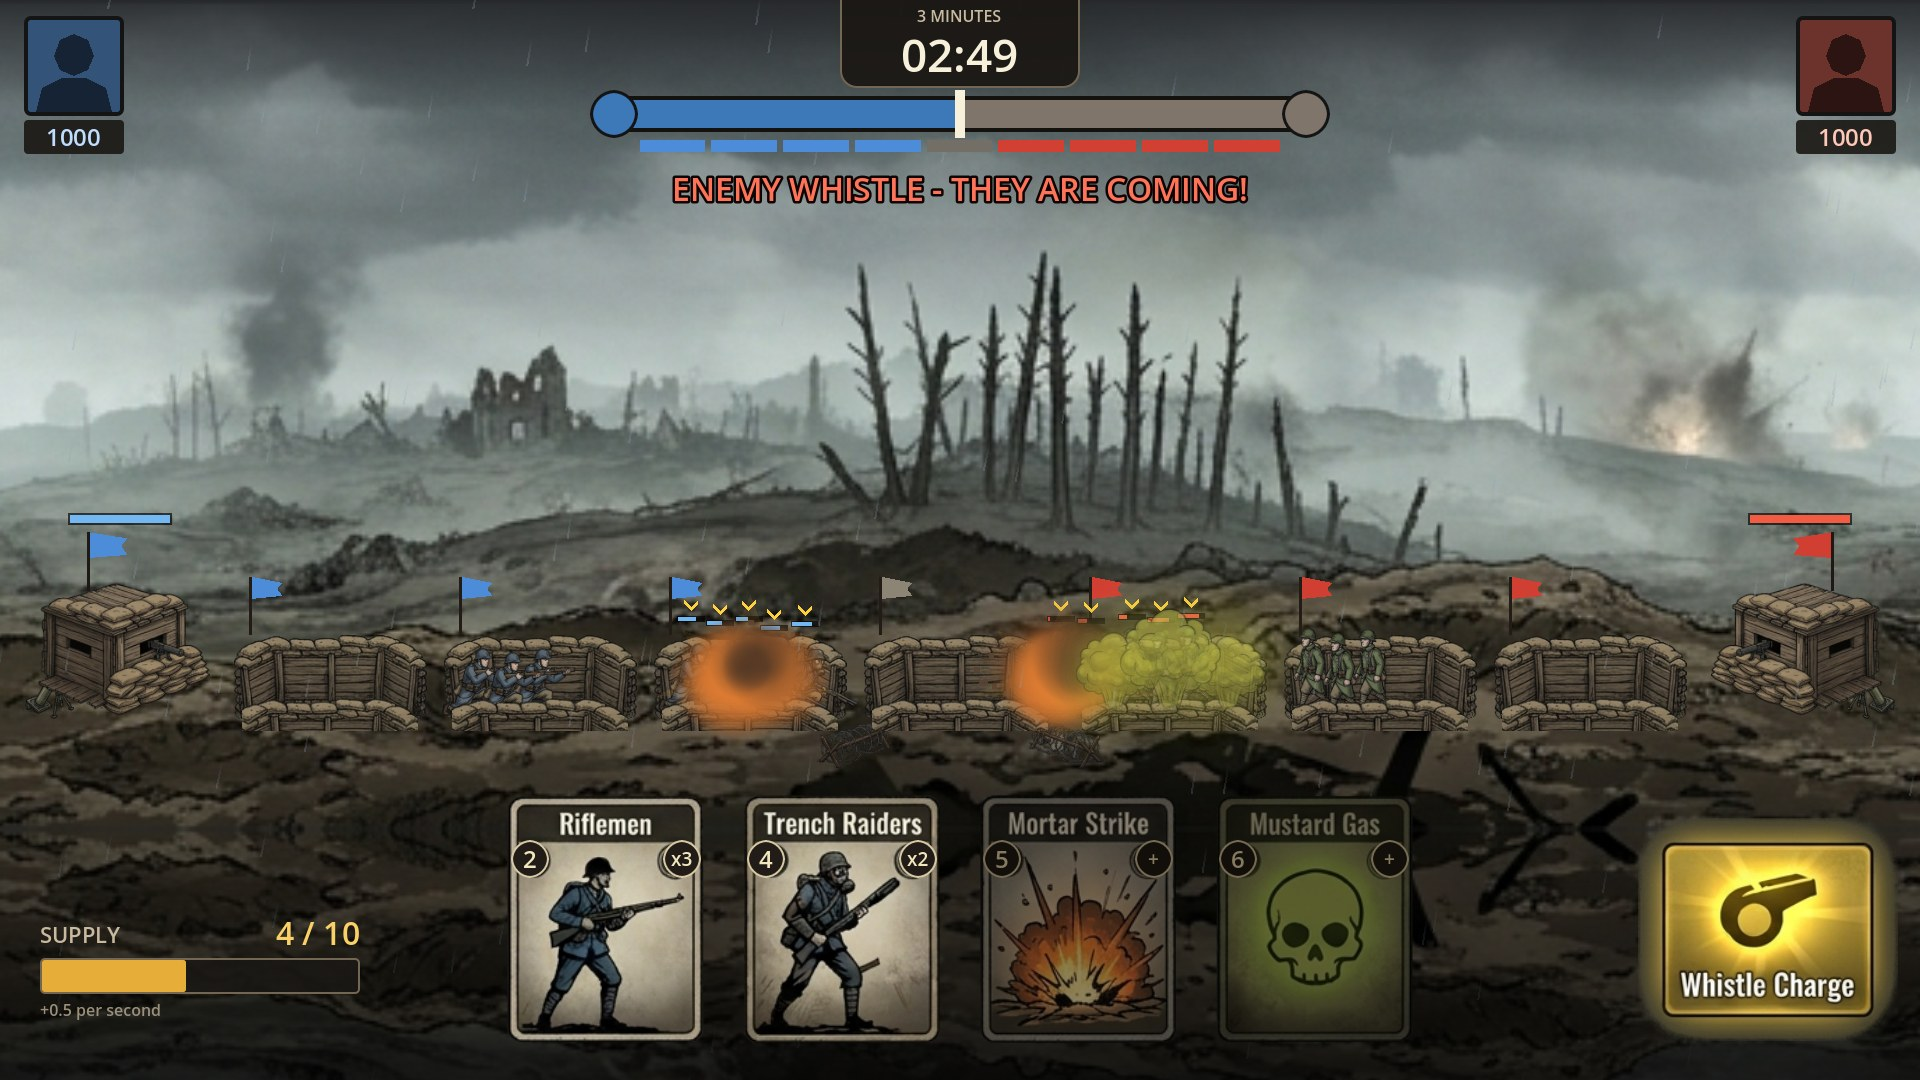
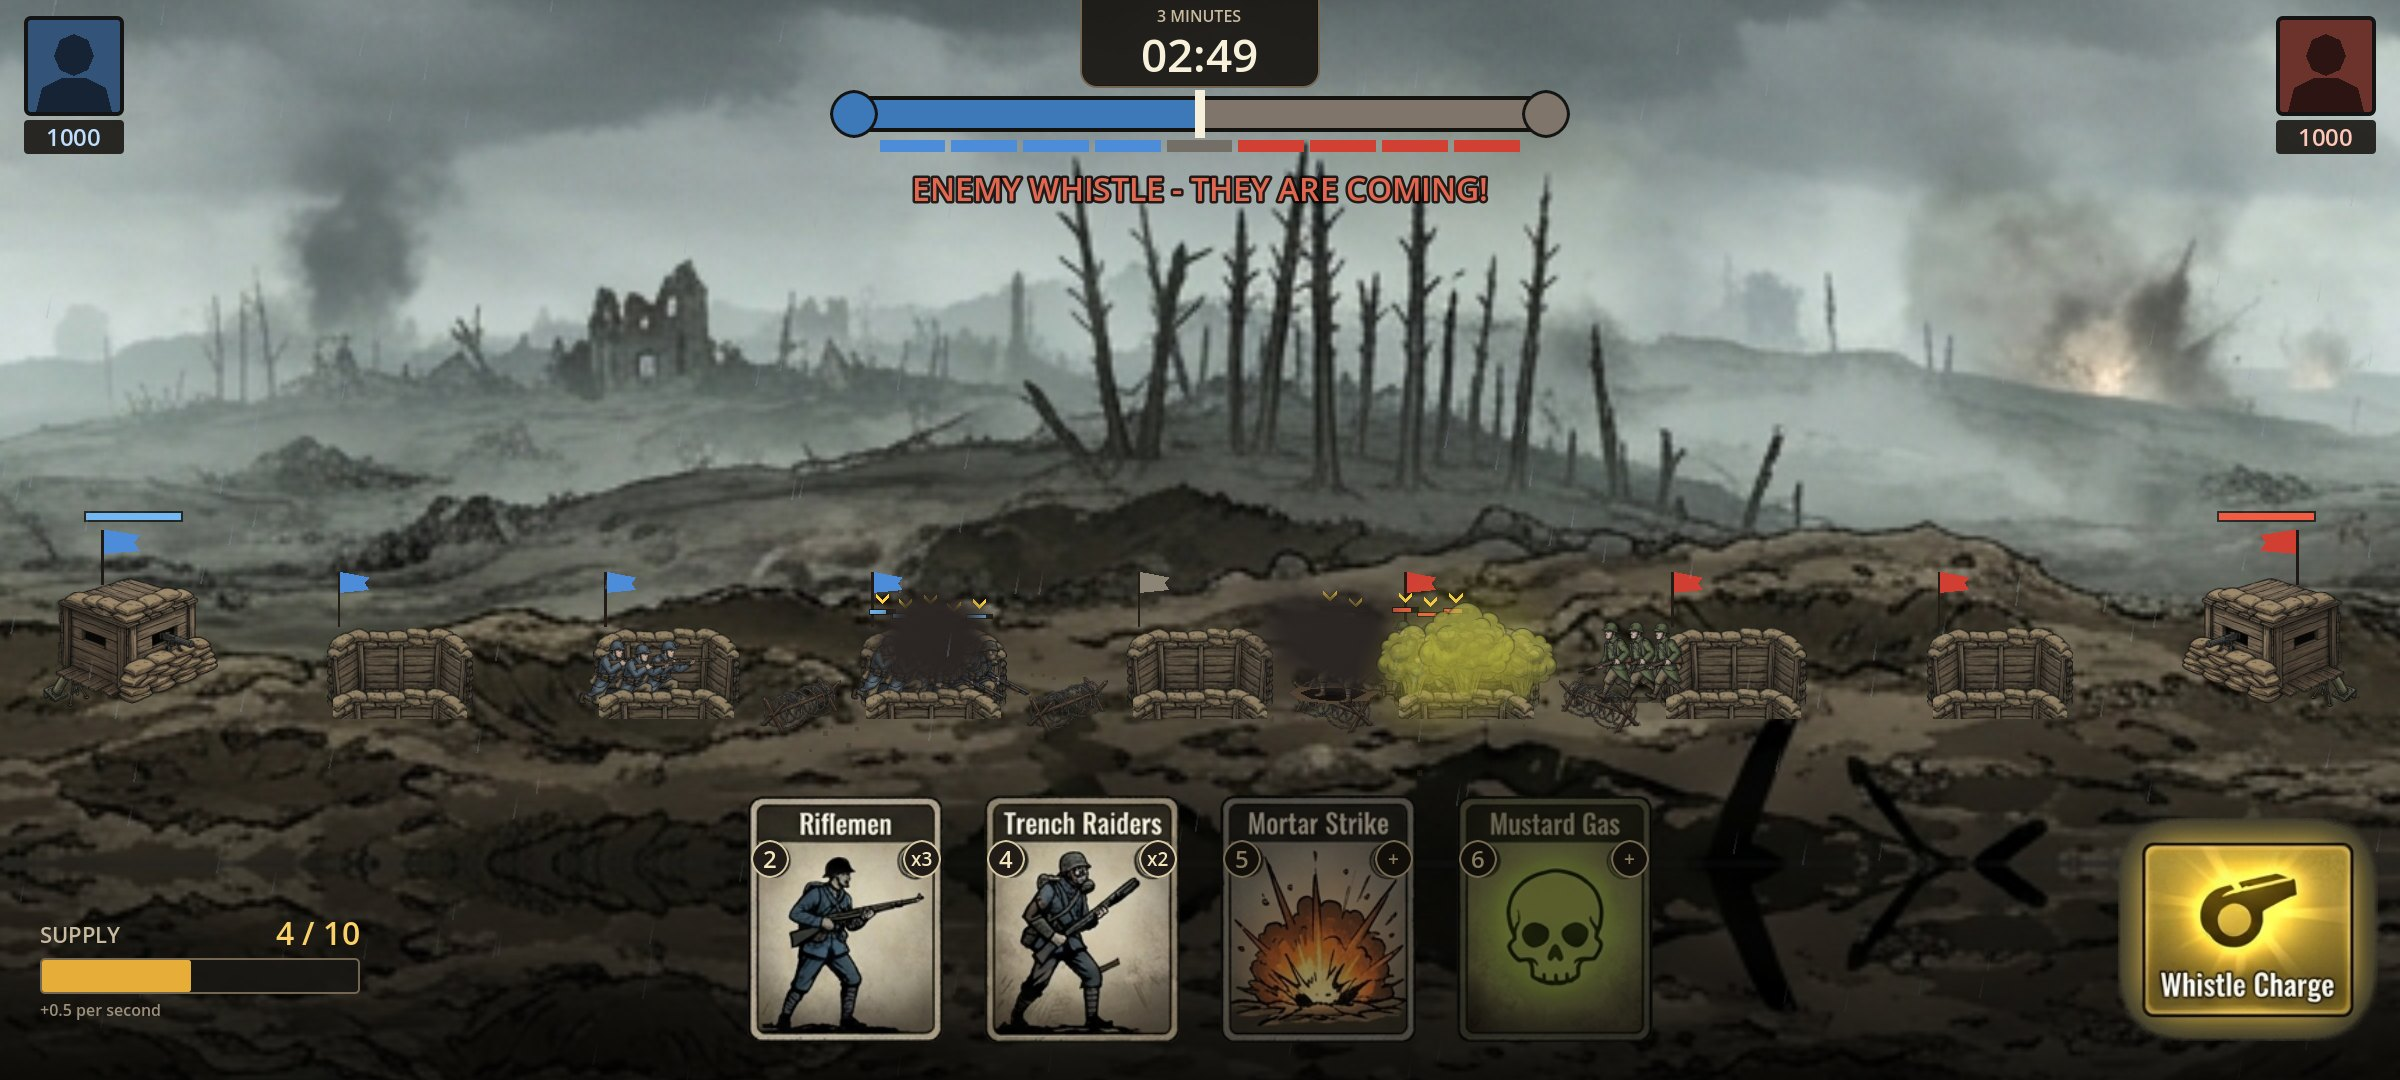
No Man's Line 0.5.0: open ground between trenches, camera fits the field
Trenches are narrower and 280 px apart, so every pair has a clear gap
of no man's land. The field is now 2520 world px wide and the camera
zooms to fit it to the screen width on any aspect ratio. Ranges and
speeds are rescaled to the new spacing, the backdrop is enlarged to
keep filling the screen, and craters can form in the gaps again.

Claude-Session: https://claude.ai/code/session_01NyUonp6gJKbSatdunyoYHK

diff --git a/no_mans_line/README.md b/no_mans_line/README.md
@@ -31,8 +31,10 @@ The APK is a debug-signed preview, not a store build.
 ## Rules as implemented
 
 The whole front fits on one screen: a Command Bunker at each end and seven
-trenches between them. Each side starts with three (reserve, support, front) and
-the middle trench starts neutral.
+trenches between them, with open ground between every pair. Each side starts
+with three (reserve, support, front) and the middle trench starts neutral. The
+camera zooms to fit the field to the screen width (about 0.76x on 16:9, 0.95x on
+a 20:9 phone).
 
 The game is built around one loop: **garrison, bank Supply, barrage, then
 charge.** Supply is slow on purpose, an unprepared charge at even numbers fails,
@@ -53,8 +55,8 @@ and the same charge behind a mortar or gas wins.
 | Clock | 03:00. At 00:00 the side holding more sectors wins. A tie goes to the healthier bunker, otherwise it is a stalemate. |
 | Red AI | Garrisons up to 6 soldiers, then banks Supply. Walks into undefended trenches, attacks defended ones with gas-then-whistle or mortar-plus-whistle, or a bare whistle when it clearly outnumbers you. Shells your troops when they bunch up in the open. No advances in the first 15 seconds. |
 
-Craters still exist in code, but the gaps between trenches on this map are too
-narrow for one to form except dead centre between two trenches.
+A mortar that lands in the open ground between two trenches leaves a crater
+(cover zone, bullets x0.65).
 
 Card cooldowns: Riflemen 3 s, Raiders 5 s, Mortar 8 s, Gas 12 s.
 
@@ -150,7 +152,7 @@ it to `Sprite2D.texture`, `TextureButton.texture_normal`, and so on.
 
 | Resource | Region | Used by |
 | --- | --- | --- |
-| `barbed_wire` | 1113, 560, 255, 176 | either side of the middle trench |
+| `barbed_wire` | 1113, 560, 255, 176 | the open ground around the middle trench |
 | `muzzle_flash` | 646, 566, 44, 32 | `Unit/Muzzle/MuzzleFlash`, bunker gun |
 | `bunker_units_sheet` | 748, 503, 327, 250 | sliced, not placed (the environment sheet's intact / damaged pair is used) |
 
@@ -194,7 +196,7 @@ Inspector. Keep `region.size + margin.size` equal to the cell size.
   rectangle. The tip is erased by the strip tool and every shot gets the separate
   `muzzle_flash` sprite instead.
 - **Backdrop upscale.** The banner is 259 px tall, so filling a 1080 px screen
-  draws it at 3.2x. It reads as a soft painted backdrop; a taller source image
+  draws it at 3.2x or more. It reads as a soft painted backdrop; a taller source image
   would sharpen it.
 - **Still procedural:** unit shadows and health bars, ownership flags, craters,
   the explosion flash, tracers, rain, and the top bar (portraits, tug-of-war bar,
@@ -208,24 +210,24 @@ Collision layer / mask values are shown as `L` / `M` using the layer names below
 
 ```
 Main (Node2D)                        GameManager.gd
-├─ Camera2D                          zoomed and positioned in code so the field spans the screen width
+├─ Camera2D                          zoomed and positioned in code so 2520 world px span the screen
 ├─ Background (Node2D, z -10)
 │  ├─ SkyFill, GroundFill (Polygon2D) flat colour beyond the art (only seen on very tall screens)
-│  ├─ Banner (Sprite2D)              background_banner, scale 3.2, fills the screen
+│  ├─ Banner (Sprite2D)              background_banner, scale 4.2, fills the screen
 │  ├─ GroundMirror (Sprite2D)        background_ground, flipped vertically: more mud under the HUD
 │  └─ SkyFade (Polygon2D)            soft top edge
 ├─ Battlefield (Node2D)
-│  ├─ Sectors (Node2D)               the 9 sectors, left to right, 210 px apart
-│  │  ├─ BlueBunker        (Bunker.tscn)  position (120, 700),  team = Blue
-│  │  ├─ BlueReserveTrench (Trench.tscn)  x = 330,  initial_owner = Blue
-│  │  ├─ BlueSupportTrench (Trench.tscn)  x = 540,  initial_owner = Blue
-│  │  ├─ BlueFrontTrench   (Trench.tscn)  x = 750,  initial_owner = Blue
-│  │  ├─ MiddleTrench      (Trench.tscn)  x = 960,  initial_owner = Neutral
-│  │  ├─ RedFrontTrench    (Trench.tscn)  x = 1170, initial_owner = Red
-│  │  ├─ RedSupportTrench  (Trench.tscn)  x = 1380, initial_owner = Red
-│  │  ├─ RedReserveTrench  (Trench.tscn)  x = 1590, initial_owner = Red
-│  │  └─ RedBunker         (Bunker.tscn)  position (1800, 700), team = Red
-│  ├─ Decor (Node2D)                 WireLeft, WireRight (Sprite2D, barbed_wire)
+│  ├─ Sectors (Node2D)               the 9 sectors, left to right, 280 px apart
+│  │  ├─ BlueBunker        (Bunker.tscn)  position (140, 700),  team = Blue
+│  │  ├─ BlueReserveTrench (Trench.tscn)  x = 420,  initial_owner = Blue
+│  │  ├─ BlueSupportTrench (Trench.tscn)  x = 700,  initial_owner = Blue
+│  │  ├─ BlueFrontTrench   (Trench.tscn)  x = 980,  initial_owner = Blue
+│  │  ├─ MiddleTrench      (Trench.tscn)  x = 1260, initial_owner = Neutral
+│  │  ├─ RedFrontTrench    (Trench.tscn)  x = 1540, initial_owner = Red
+│  │  ├─ RedSupportTrench  (Trench.tscn)  x = 1820, initial_owner = Red
+│  │  ├─ RedReserveTrench  (Trench.tscn)  x = 2100, initial_owner = Red
+│  │  └─ RedBunker         (Bunker.tscn)  position (2380, 700), team = Red
+│  ├─ Decor (Node2D)                 four barbed_wire Sprite2Ds in the gaps around the middle
 │  ├─ Craters (Node2D)               Crater.tscn instances are added here
 │  ├─ Units (Node2D, y_sort_enabled) Unit.tscn instances are added here
 │  └─ Effects (Node2D)               mortars, gas clouds, tracers
@@ -240,8 +242,9 @@ Main (Node2D)                        GameManager.gd
 
 `GameManager` finds the trenches itself: every `Trench` under `Sectors` is
 collected and sorted by x, so adding, removing or moving an instance changes the
-map with no code edits. Keep the spacing at or under about 210 px, or riflemen
-(range 330) can no longer reach the far side of the next trench.
+map with no code edits. Two things to keep in step if you change the spacing:
+riflemen (range 400) must still reach the far side of the next trench, and
+`GameManager.FIELD_VIEW_WIDTH` (2520) is the width the camera fits to the screen.
 
 ### Unit.tscn
 
@@ -281,7 +284,7 @@ as drawn and mirrors Red; a unit also turns to face its target.
 
 ```
 Trench (Area2D)                      Trench.gd, L sectors, M blue_units + red_units
-├─ CollisionShape2D                  RectangleShape2D 180 x 170
+├─ CollisionShape2D                  RectangleShape2D 160 x 170
 ├─ Bay (Sprite2D)                    trench_bay, drawn behind the soldiers
 ├─ Flag (Node2D)
 │  ├─ Pole (Polygon2D)
@@ -357,7 +360,7 @@ MortarStrike (Node2D)      MortarStrike.gd
 └─ FuseTimer (Timer, one_shot)
 
 GasCloud (Area2D)          GasCloud.gd, L hazards, M blue_units + red_units
-├─ CollisionShape2D        RectangleShape2D 190 x 170
+├─ CollisionShape2D        RectangleShape2D 170 x 170
 ├─ Clouds (Node2D) → CloudLeft, CloudRight, CloudMid (Sprite2D, gas_cloud)
 ├─ Puffs (GPUParticles2D)
 └─ TickTimer, LifeTimer (Timer)
